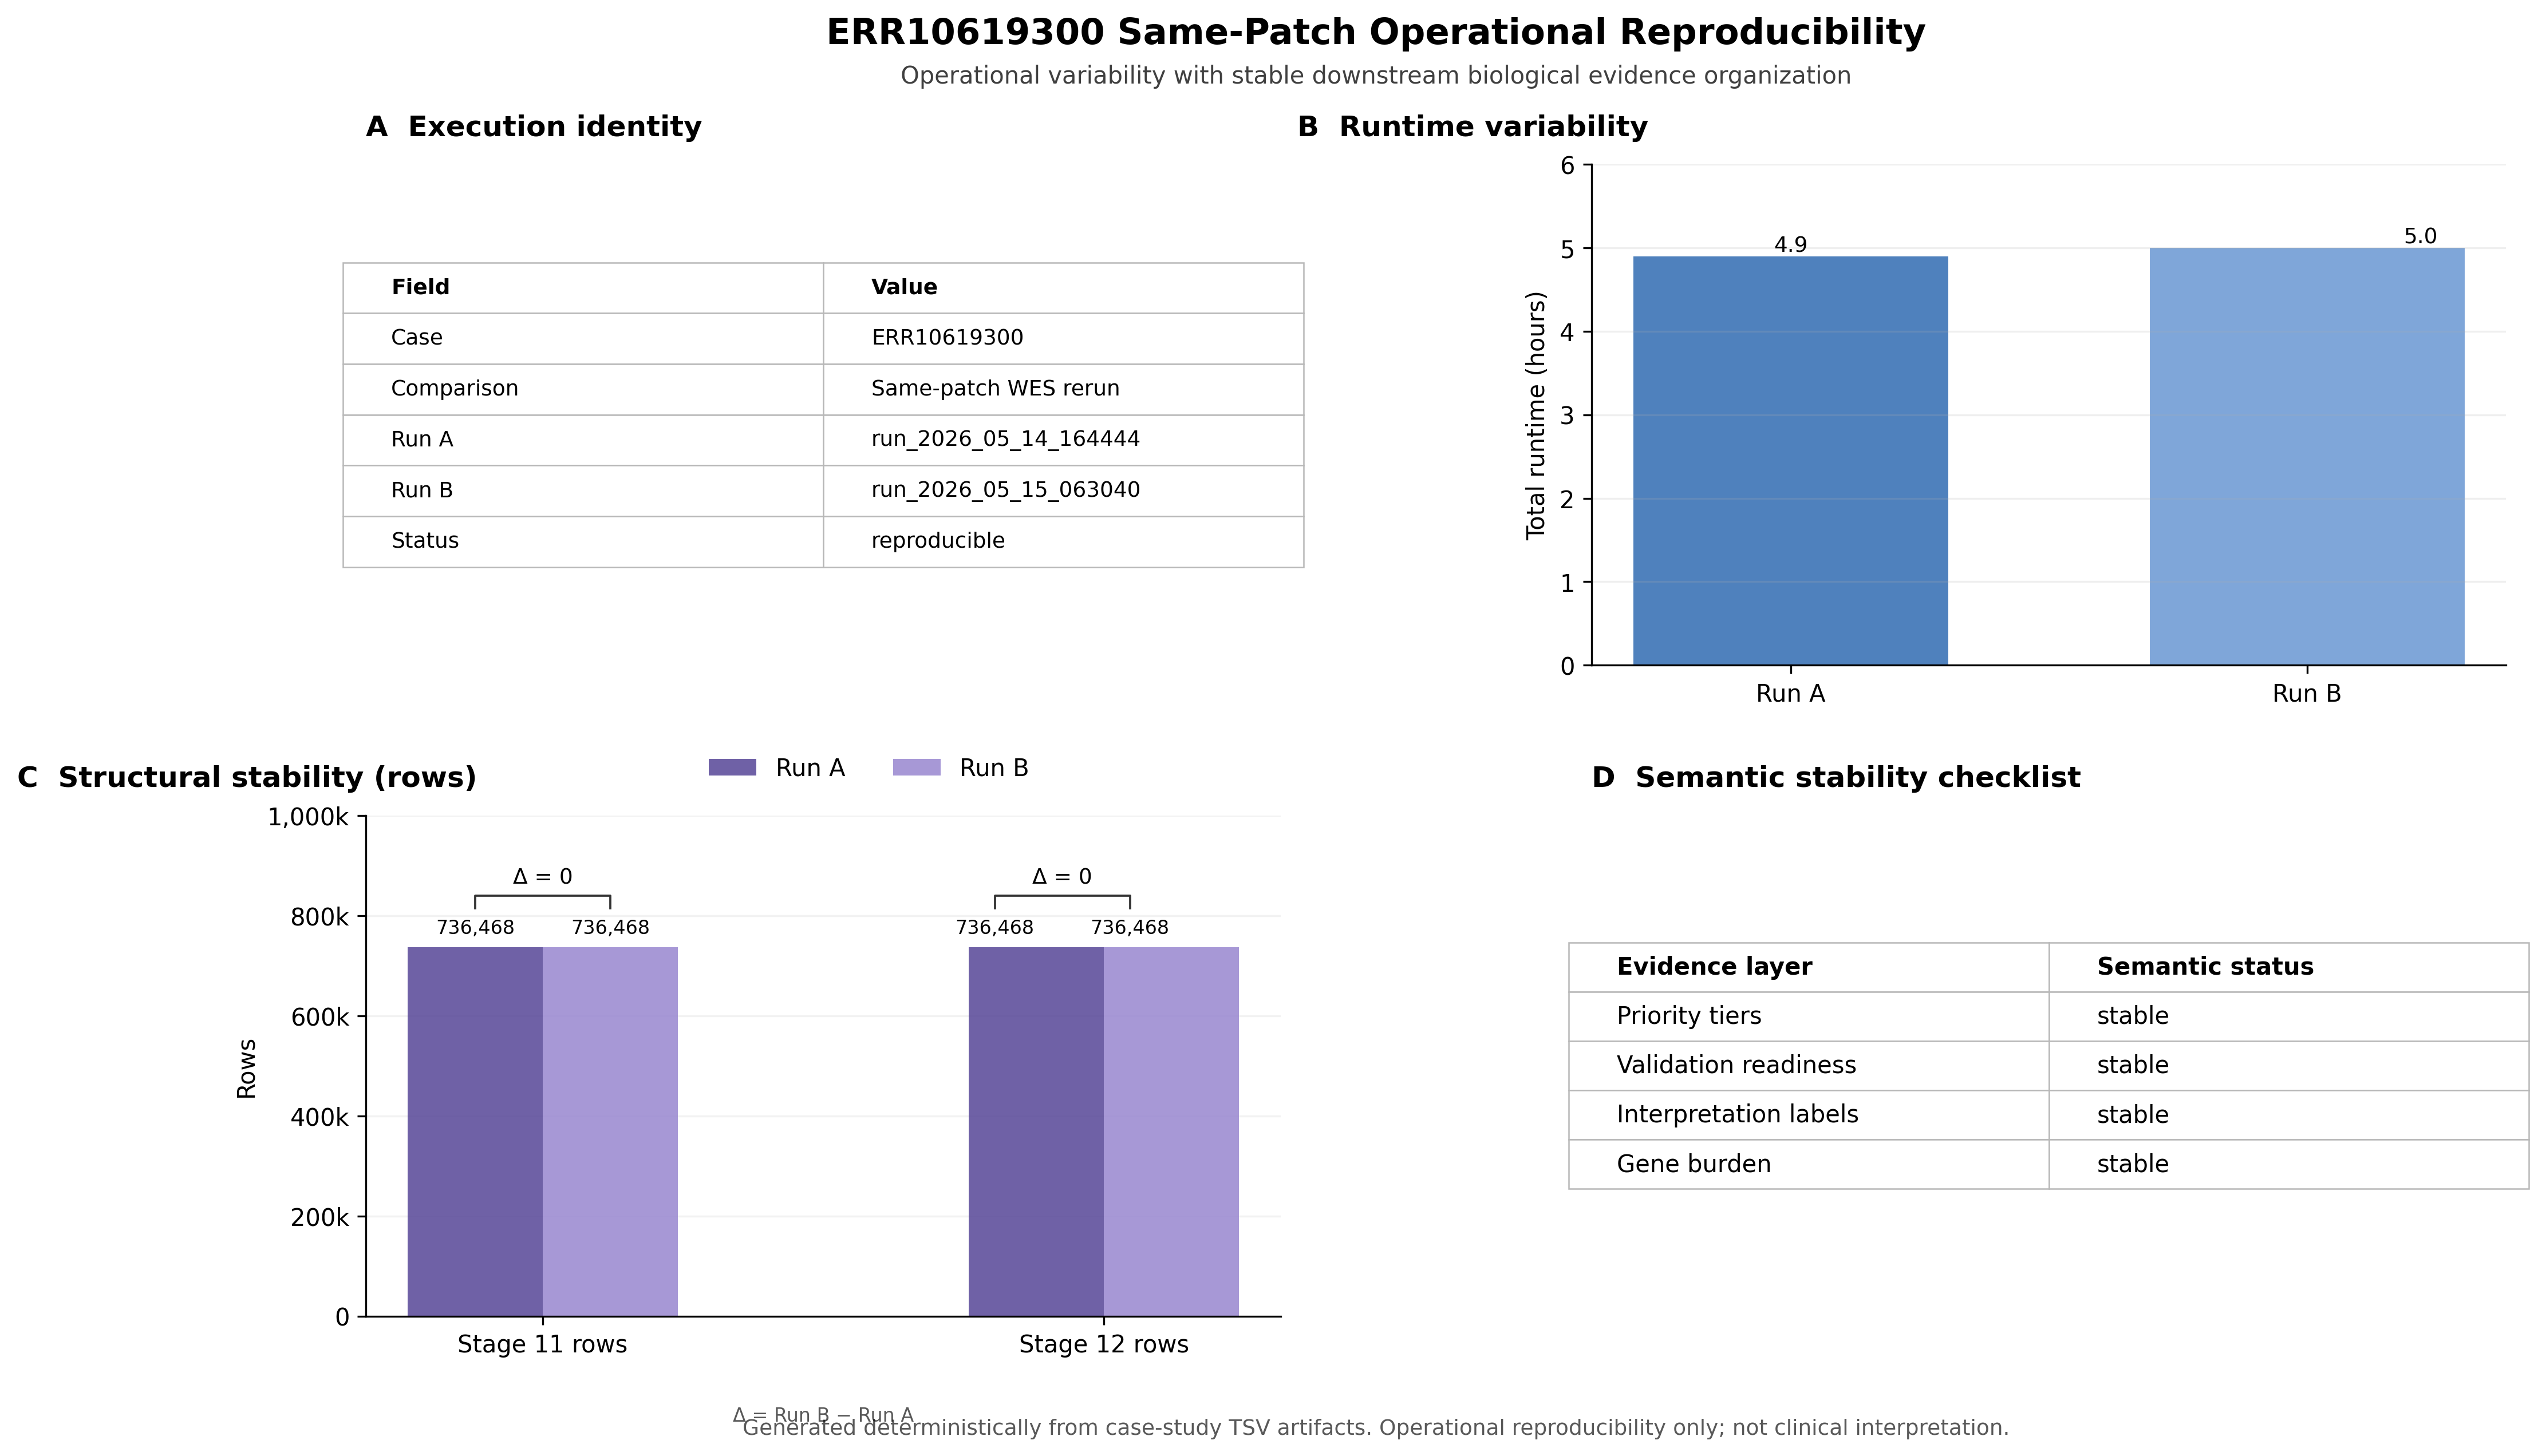
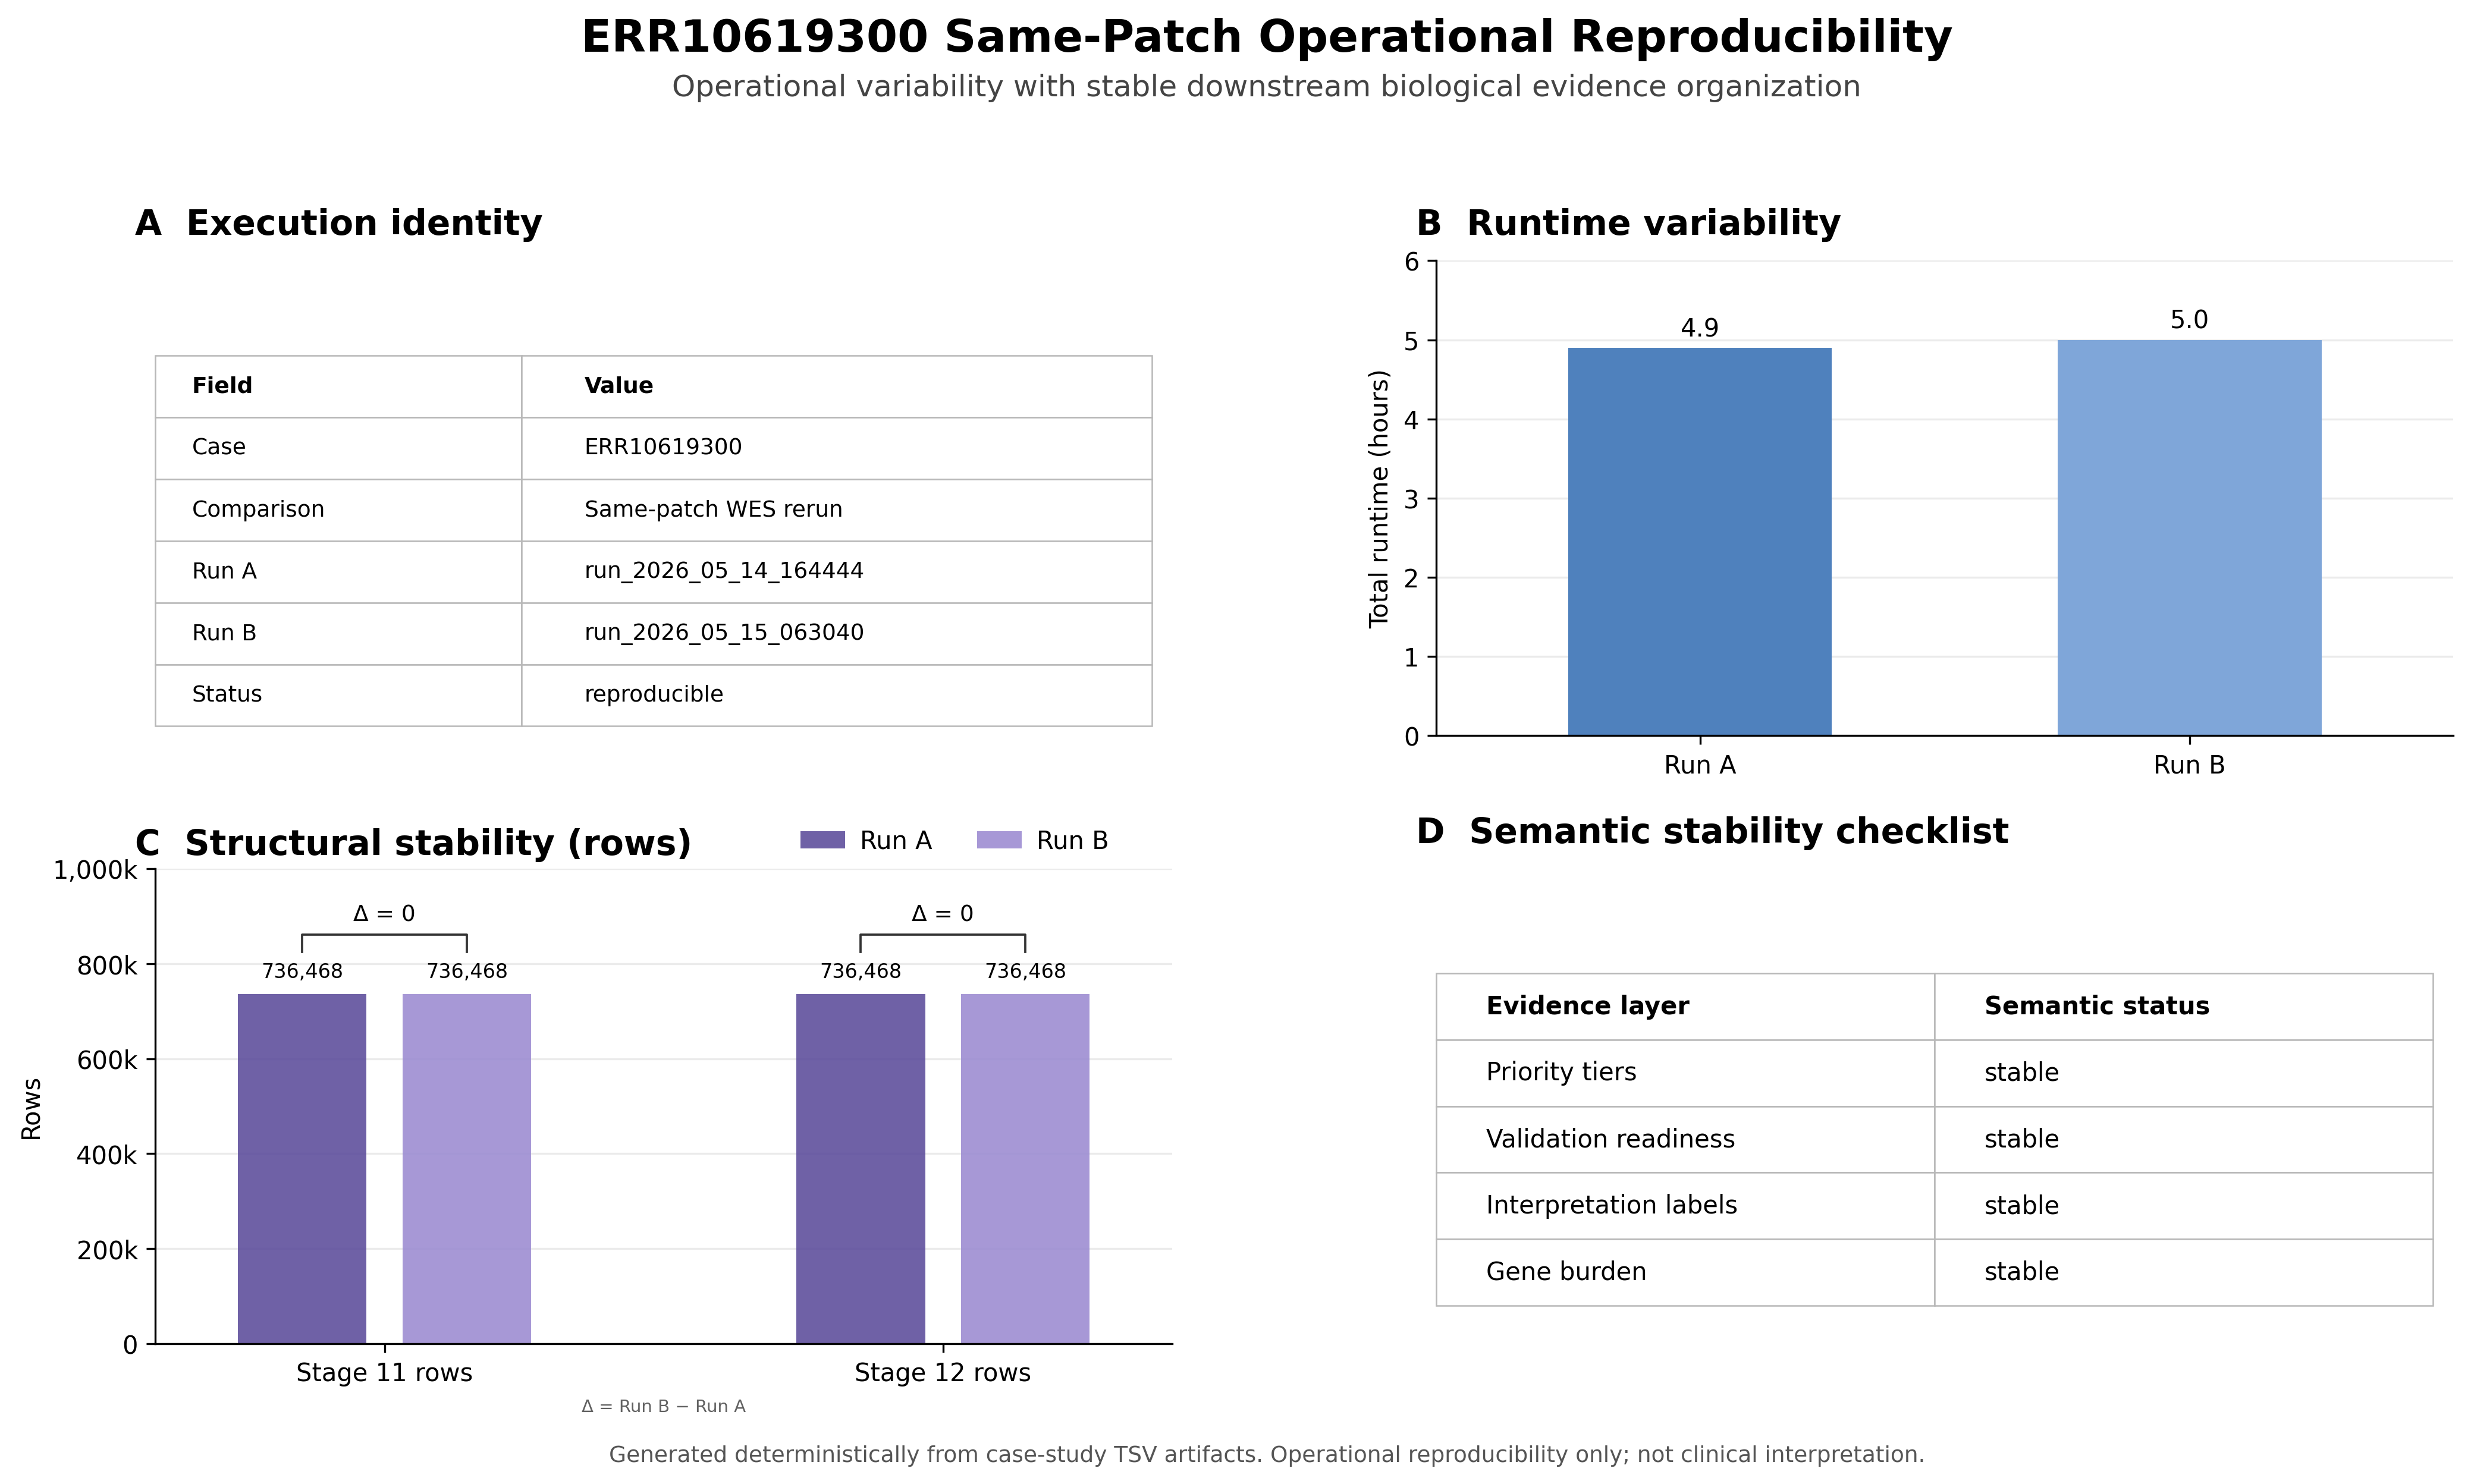
Working F1 pass, needs HG002 resolution.

diff --git a/scripts/figures/generate_case_study_f1_reproducibility_summary.py b/scripts/figures/generate_case_study_f1_reproducibility_summary.py
@@ -70,9 +70,25 @@ def main():
     source_path=out_dir/f"{out_prefix}_source.tsv"
     write_source_tsv(source_path,source_rows)
 
-    plt.rcParams.update({"axes.spines.top":False,"axes.spines.right":False,"font.size":10,"axes.titlesize":12,"figure.titlesize":15})
-    fig=plt.figure(figsize=(14,8.6),facecolor="white",constrained_layout=False)
-    gs=fig.add_gridspec(2,2,hspace=0.30,wspace=0.34)
+    plt.rcParams.update({
+        "axes.spines.top":False,
+        "axes.spines.right":False,
+        "font.size":10,
+        "axes.titlesize":14,
+        "figure.titlesize":18
+    })
+
+    # Main Geometry
+    # Create figure and subplots with manual layout adjustments for title/label spacing
+    fig=plt.figure(figsize=(14,8.8),facecolor="white")
+    fig.subplots_adjust(left=0.055,right=0.975,top=0.82,bottom=0.13)
+    gs=fig.add_gridspec(
+        2,2,
+        width_ratios=[1,1],
+        height_ratios=[1,1],
+        wspace=0.26,
+        hspace=0.28
+    )
 
     # Panel A: Execution identity and overall reproducibility status
     ax1=fig.add_subplot(gs[0,0])
@@ -84,31 +100,45 @@ def main():
         ["Run B",run_b],
         ["Status",comp["overall_reproducibility_status"]]
     ]
-    tbl=ax1.table(cellText=identity,colLabels=["Field","Value"],loc="center",cellLoc="left",colLoc="left")
+    tbl=ax1.table(
+        cellText=identity,
+        colLabels=["Field","Value"],
+        loc="center",
+        cellLoc="left",
+        colLoc="left",
+        colWidths=[0.36,0.62],
+        bbox=[0.00,0.02,0.98,0.78]
+    )
+    tbl.auto_set_font_size(False)
+    tbl.set_fontsize(9)
     for c in range(2):
         tbl[(0,c)].set_text_props(weight="bold")
-    tbl.auto_set_font_size(False);tbl.set_fontsize(9);tbl.scale(1.05,1.75)
-    ax1.set_title("A  Execution identity",loc="left",pad=12,fontweight="bold")
     for (_, _), cell in tbl.get_celld().items():
         cell.set_edgecolor("#B8B8B8")
         cell.set_linewidth(0.6)
+    ax1.text(-0.02,1.04,"A  Execution identity",transform=ax1.transAxes,
+         ha="left",va="bottom",fontsize=14,fontweight="bold")
 
     # Panel B: Runtime variability
     ax2=fig.add_subplot(gs[0,1])
     runtime_dark="#4F81BD"
     runtime_light="#7FA6D9"
-    runtime_x=[0,0.82]
-    ax2.bar(runtime_x,[seconds_to_hours(run_a_runtime),seconds_to_hours(run_b_runtime)],color=[runtime_dark,runtime_light],width=0.5)
+    runtime_x=[0,0.52]
+    runtime_vals=[seconds_to_hours(run_a_runtime),seconds_to_hours(run_b_runtime)]
+    bars=ax2.bar(runtime_x,runtime_vals,color=[runtime_dark,runtime_light],width=0.28)
+    ax2.set_xlim(-0.28,0.80)
     ax2.set_xticks(runtime_x)
-    ax2.set_xticklabels(["Run A","Run B"])    
-    
+    ax2.set_xticklabels(["Run A","Run B"])
     ax2.set_ylabel("Total runtime (hours)")
     ax2.set_ylim(0,6)
-    ax2.set_title("B  Runtime variability",x=-0.13,pad=12,fontweight="bold")
-    ax2.grid(axis="y",alpha=0.2)
-    for i,v in enumerate([seconds_to_hours(run_a_runtime),seconds_to_hours(run_b_runtime)]):
-        ax2.text(i,v,f"{v:.1f}",ha="center",va="bottom",fontsize=9)
-
+    ax2.text(-0.02,1.04,"B  Runtime variability",transform=ax2.transAxes,
+         ha="left",va="bottom",fontsize=14,fontweight="bold")
+    ax2.grid(axis="y",alpha=0.25)
+    ax2.set_axisbelow(True)
+    ax2.spines["top"].set_visible(False)
+    ax2.spines["right"].set_visible(False)
+    for bar,v in zip(bars,runtime_vals):
+        ax2.text(bar.get_x()+bar.get_width()/2,v+0.08,f"{v:.1f}",ha="center",va="bottom",fontsize=10)
 
     # Panel C: Structural stability of evidence prioritization and validation rows
     ax3=fig.add_subplot(gs[1,0])
@@ -123,40 +153,66 @@ def main():
     b_vals=[stage11_b,stage12_b]
     deltas=[stage11_b-stage11_a,stage12_b-stage12_a]
 
-    x=[0,1.08]
-    width=0.26
-    max_val=max(a_vals+b_vals)
-
+    x=[0,0.78]
+    width=0.18
+    gap=0.025
     struct_dark="#5B4B9A"
     struct_light="#9B8AD1"
-    ax3.bar([i-width/2 for i in x],a_vals,width,label="Run A",color=struct_dark,alpha=0.88)
-    ax3.bar([i+width/2 for i in x],b_vals,width,label="Run B",color=struct_light,alpha=0.88)
 
-    ax3.set_xticks(list(x))
+    bars_a=ax3.bar([i-width/2-gap for i in x],a_vals,width,label="Run A",color=struct_dark,alpha=0.88)
+    bars_b=ax3.bar([i+width/2+gap for i in x],b_vals,width,label="Run B",color=struct_light,alpha=0.88)
+    ax3.set_xlim(-0.32,1.10)
+
+    ax3.set_xticks(x)
     ax3.set_xticklabels(struct_metrics)
     ax3.set_ylabel("Rows")
     ax3.set_ylim(0,1000000)
     ax3.yaxis.set_major_formatter(FuncFormatter(lambda x,pos: "0" if x==0 else f"{int(x/1000):,}k"))
-    ax3.set_title("C  Structural stability (rows)",x=-0.13,pad=12,fontweight="bold")
-    ax3.grid(axis="y",alpha=0.16)
+    ax3.text(-0.02,1.015,"C  Structural stability (rows)",transform=ax3.transAxes,
+         ha="left",va="bottom",fontsize=14,fontweight="bold")
+    ax3.grid(axis="y",alpha=0.25)
     ax3.set_axisbelow(True)
-    # Annotate bars with values and deltas
-    for i,(a,b,d) in enumerate(zip(a_vals,b_vals,deltas)):
-        left=i-width/2
-        right=i+width/2
-        y=max(a,b)*1.08
-        bracket_y=max(a,b)*1.14
-        # Annotate bars with values and deltas
-        ax3.text(left,a+20000,f"{a:,}",ha="center",va="bottom",fontsize=8)
-        ax3.text(right,b+20000,f"{b:,}",ha="center",va="bottom",fontsize=8)
-        # Draw delta bracket
-        ax3.plot([left,left,right,right],[bracket_y-25000,bracket_y,bracket_y,bracket_y-25000],color="#333333",linewidth=0.9)
-        ax3.text(i,bracket_y+15000,f"Δ = {d:,}",ha="center",va="bottom",fontsize=9)
+    ax3.spines["top"].set_visible(False)
+    ax3.spines["right"].set_visible(False)
+
+    for i,a,b,d in zip(x,a_vals,b_vals,deltas):
+        left=i-width/2-gap
+        right=i+width/2+gap
+        bracket_y=max(a,b)*1.17
+        stem_y=max(a,b)*1.12
+
+        ax3.text(left,a+25000,f"{a:,}",ha="center",va="bottom",fontsize=8)
+        ax3.text(right,b+25000,f"{b:,}",ha="center",va="bottom",fontsize=8)
+
+        ax3.plot(
+            [left,left,right,right],
+            [stem_y,bracket_y,bracket_y,stem_y],
+            color="#333333",
+            linewidth=0.9
+        )
+        ax3.text(i,bracket_y+18000,f"Δ = {d:,}",ha="center",va="bottom",fontsize=9)
+
+    ax3.legend(
+        frameon=False,
+        loc="upper left",
+        bbox_to_anchor=(0.625,1.105),
+        ncol=2,
+        handlelength=1.8,
+        columnspacing=1.8,
+        handletextpad=0.6,
+        borderaxespad=0.0
+    )    
     
-    # Add legend
-    ax3.legend(frameon=False,loc="upper center",bbox_to_anchor=(0.55,1.16),ncol=2)
-    ax3.text(0.5,-0.18,"Δ = Run B − Run A",transform=ax3.transAxes,ha="center",va="top",fontsize=8,alpha=0.65)
-    
+    ax3.text(
+        0.5,-0.115,
+        "Δ = Run B − Run A",
+        transform=ax3.transAxes,
+        ha="center",
+        va="top",
+        fontsize=7,
+        alpha=0.62
+    )
+
     # Panel D: Semantic stability checklist
     ax4=fig.add_subplot(gs[1,1])
     ax4.axis("off")
@@ -167,22 +223,41 @@ def main():
         ["Gene burden",comp["gene_burden_match"]]
     ]
     checks=[[k,"stable" if str(v)=="True" else "divergent"] for k,v in checks]
-    tbl2=ax4.table(cellText=checks,colLabels=["Evidence layer","Semantic status"],loc="center",cellLoc="left",colLoc="left")
+    tbl2=ax4.table(
+        cellText=checks,
+        colLabels=["Evidence layer","Semantic status"],
+        loc="center",
+        cellLoc="left",
+        colLoc="left",
+        # Panel D table bbox
+        bbox=[0.00,0.08,0.98,0.70]
+    )
+    tbl2.auto_set_font_size(False)
+    tbl2.set_fontsize(10)
     for c in range(2):
         tbl2[(0,c)].set_text_props(weight="bold")
-    tbl2.auto_set_font_size(False);tbl2.set_fontsize(10);tbl2.scale(1.05,1.7)
-    ax4.set_title("D  Semantic stability checklist",loc="left",pad=12,fontweight="bold")
     for (_, _), cell in tbl2.get_celld().items():
         cell.set_edgecolor("#B8B8B8")
         cell.set_linewidth(0.6)
-    
-    fig.suptitle(cfg["figure_title"],y=0.98,fontweight="bold")
-    fig.text(0.5,0.935,"Operational variability with stable downstream biological evidence organization",ha="center",fontsize=10,alpha=0.75)
-    fig.text(0.5,0.02,"Generated deterministically from case-study TSV artifacts. Operational reproducibility only; not clinical interpretation.",ha="center",fontsize=9,alpha=0.65)
+    ax4.text(-0.02,1.04,"D  Semantic stability checklist",transform=ax4.transAxes,
+         ha="left",va="bottom",fontsize=14,fontweight="bold")
 
-    # Prevent title/label overlap with tight layout by using constrained_layout=False and manual adjustments
-    plt.subplots_adjust(left=0.08,right=0.97,top=0.88,bottom=0.10)
-    
+    fig.suptitle(cfg["figure_title"],y=0.975,fontweight="bold",fontsize=18)
+    fig.text(
+        0.5,0.925,
+        "Operational variability with stable downstream biological evidence organization",
+        ha="center",
+        fontsize=12,
+        color="#444444"
+    )
+    fig.text(
+        0.5,0.055,
+        "Generated deterministically from case-study TSV artifacts. Operational reproducibility only; not clinical interpretation.",
+        ha="center",
+        fontsize=9,
+        color="#555555"
+    )    
+
     # Save outputs
     png=out_dir/f"{out_prefix}.png"
     pdf=out_dir/f"{out_prefix}.pdf"